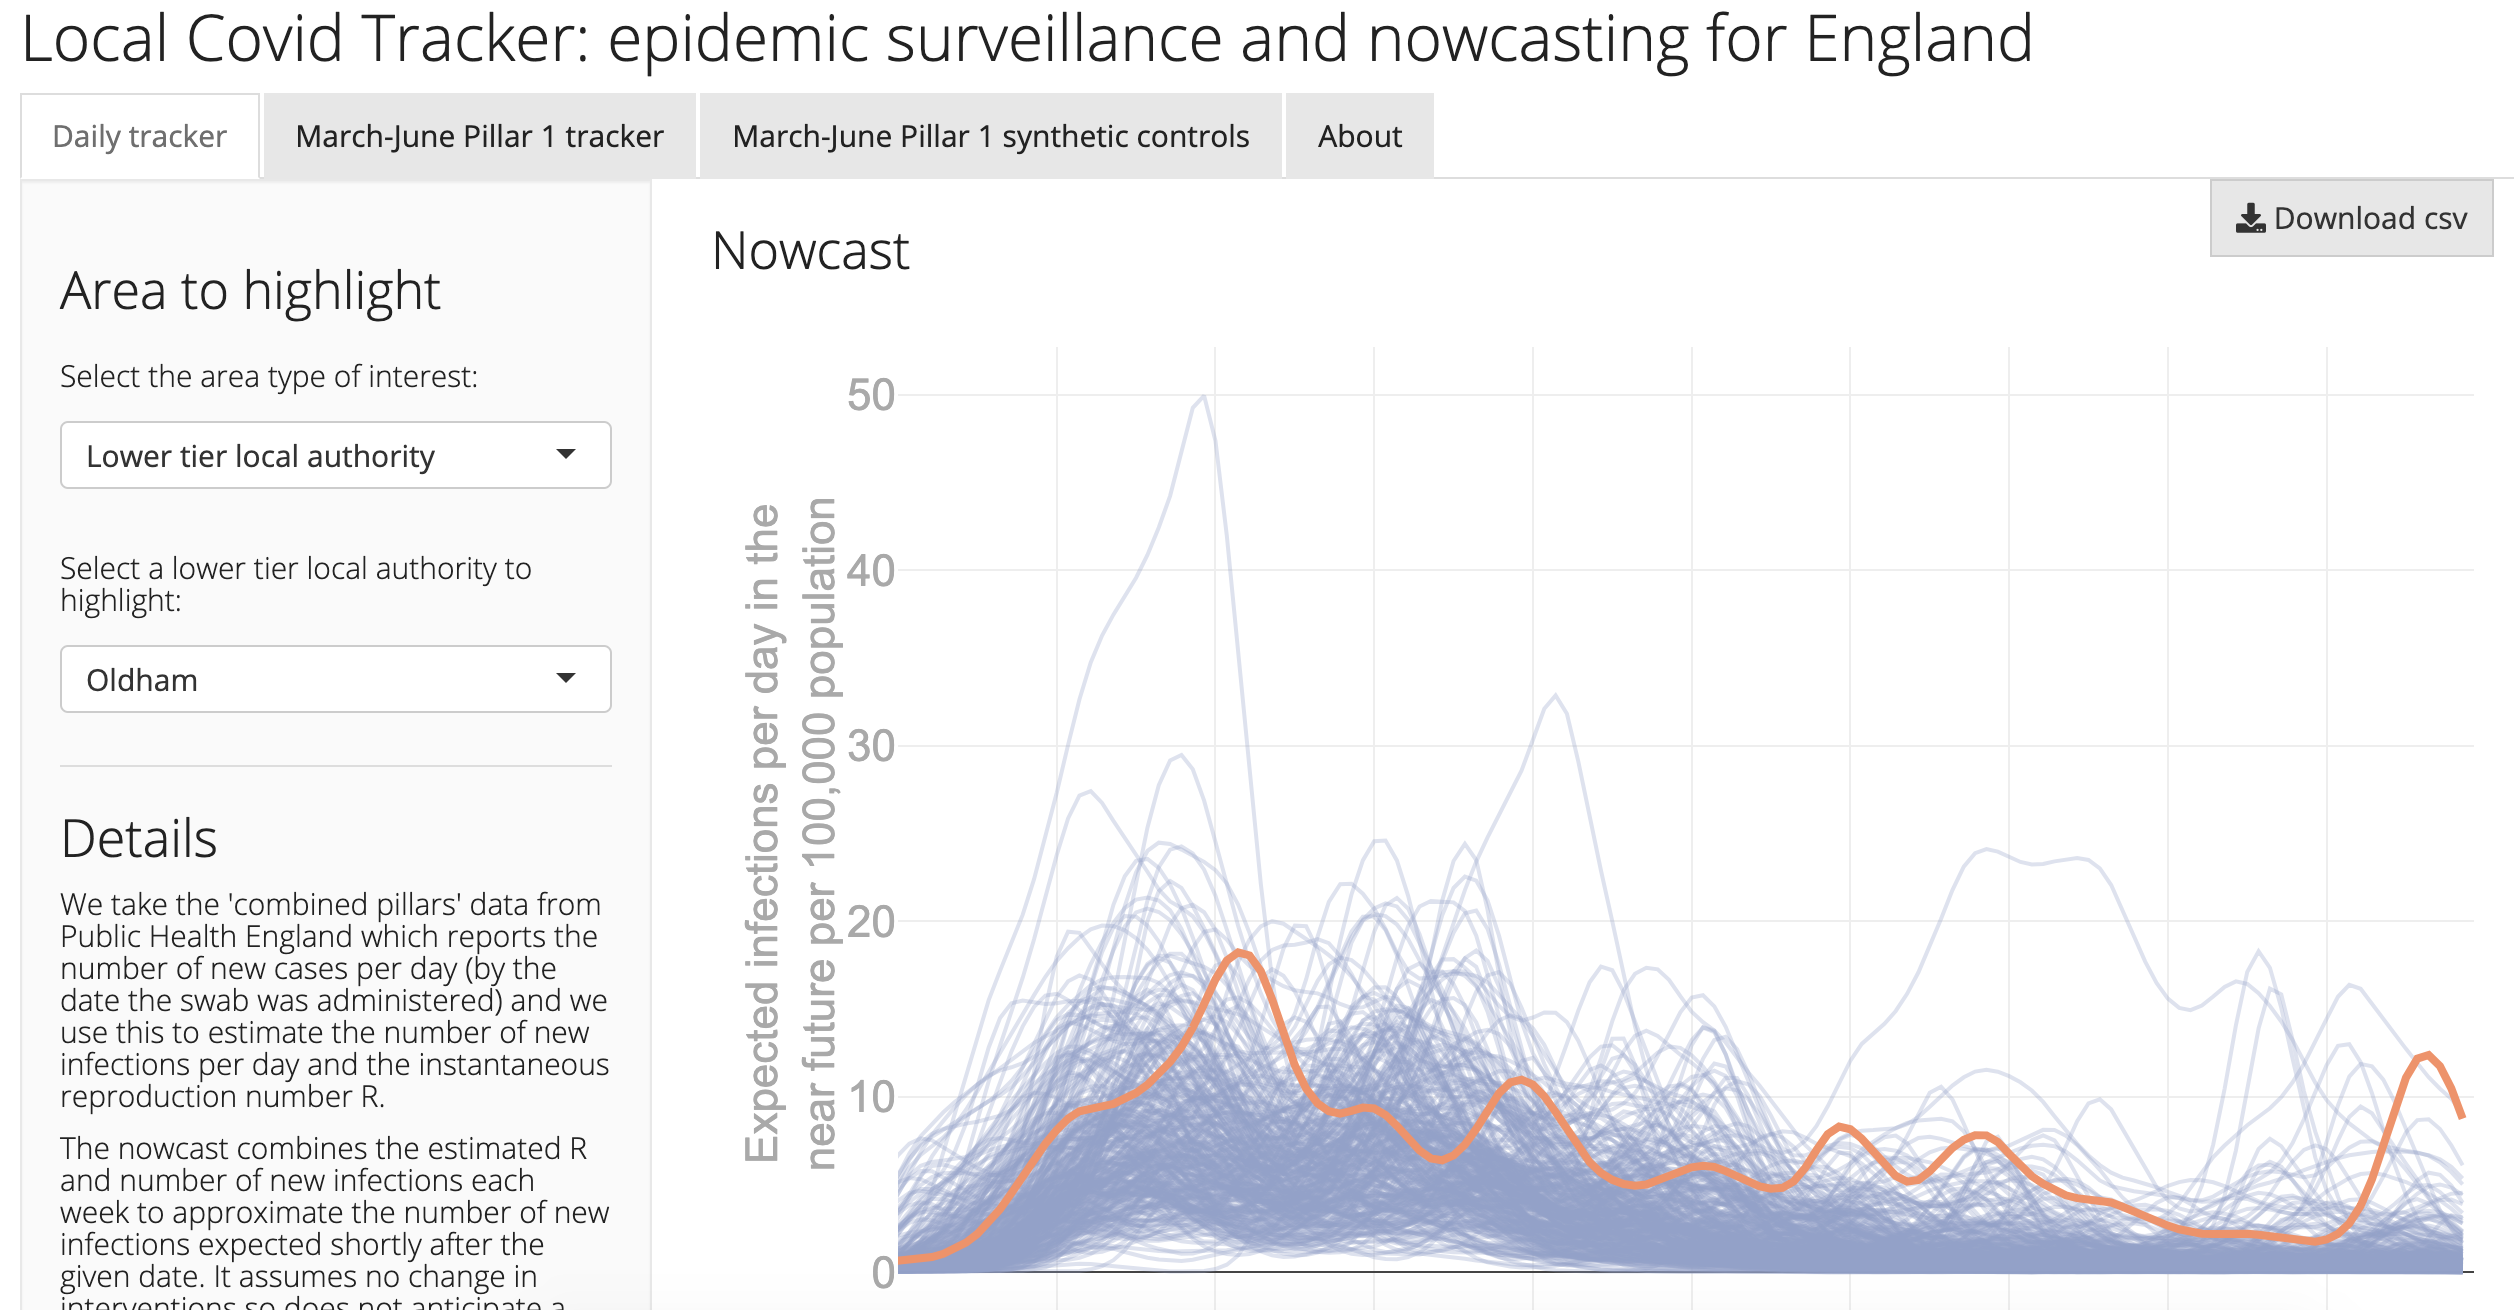
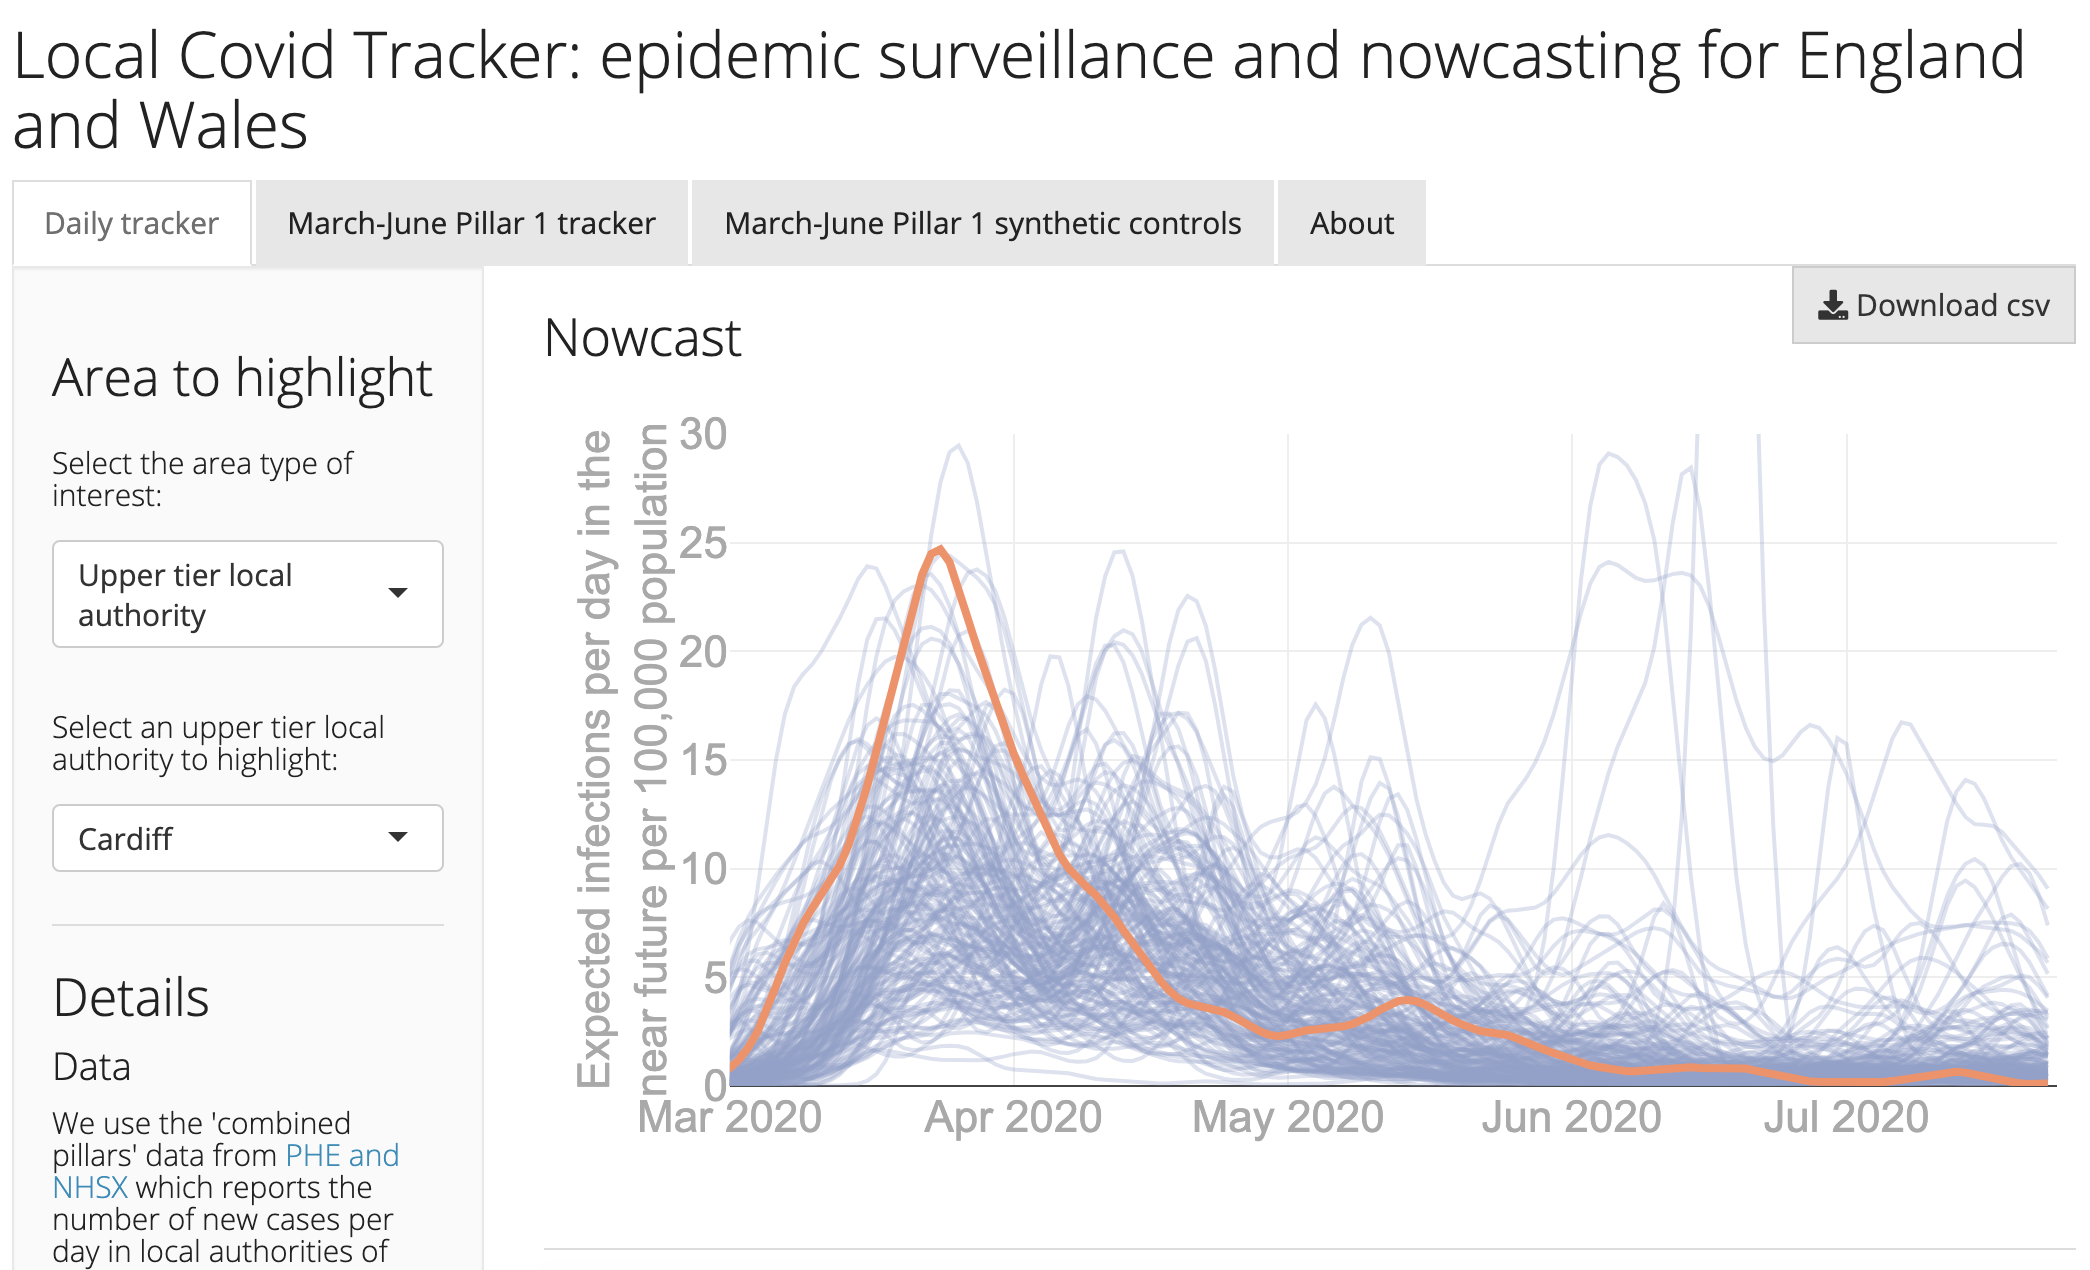
Updating LocalCovidTracker info now that we include Wales

diff --git a/software.html b/software.html
@@ -24,9 +24,9 @@ bottom_image: knitted_tree_banner.jpg
 					<a href="https://bdi-pathogens.shinyapps.io/LocalCovidTracker/" target="_blank">Local Covid Tracker</a>
 				</h2>
 				<p class="editable">
-					I made <a href="https://bdi-pathogens.shinyapps.io/LocalCovidTracker/" target="_blank">this shiny app</a> to track local infection levels across England. The methods used are based on those described
+					I made <a href="https://bdi-pathogens.shinyapps.io/LocalCovidTracker/" target="_blank">this shiny app</a> to track local infection levels across England and Wales. The methods used are based on those described
 					in this <a href="https://doi.org/10.1101/2020.07.12.20151753" target="_blank">pre-print</a>. In the app you can explore
-					the results of that paper in more detail and track local epidemics across England (updated daily).
+					the results of that paper in more detail and track local epidemics across England and Wales (updated daily).
 				</p>
 			</div>
 			<div class="image">
